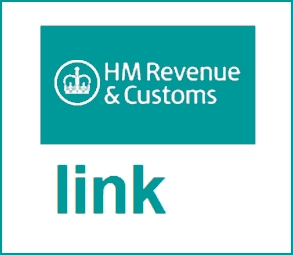
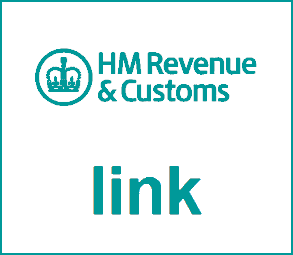
EZ-1576: new GUI for main hmrc buttons

diff --git a/App/PluginWeb/EzBob.Web/Content/js/Wizard/ezbob.wizard.signupstep.js b/App/PluginWeb/EzBob.Web/Content/js/Wizard/ezbob.wizard.signupstep.js
@@ -214,11 +214,6 @@ EzBob.QuickSignUpStepView = Backbone.View.extend({
             return false;
         } // if
 
-        //var data = this.form.serializeArray();
-        //var amount = _.find(data, function (d) { return d.name === 'amount'; });
-        //if (amount) { amount.value = this.$el.find('#amount').autoNumericGet(); }
-
-        //todo ask Yuly why not use serialize
         var xhr = $.post(this.form.attr('action'), {
             email: $('#Email').val(),
             signupPass1: $('#signupPass1').val(),
